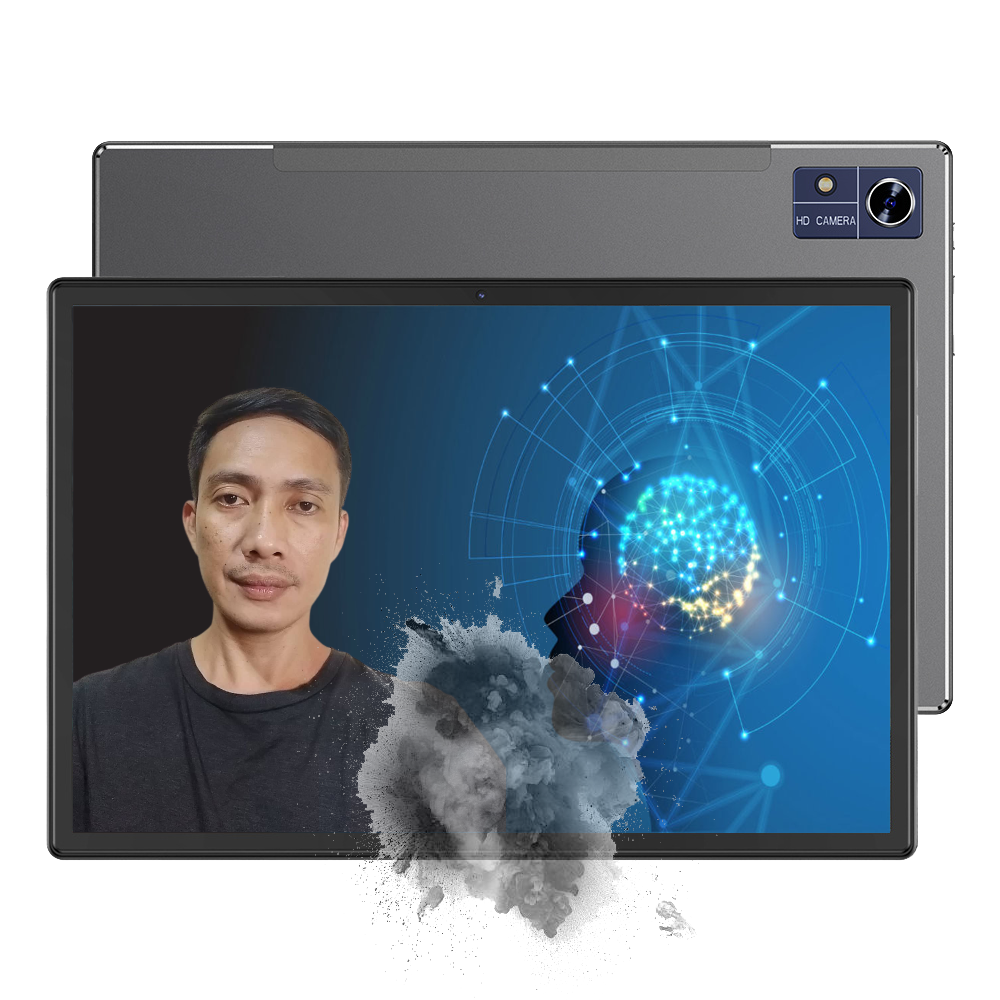
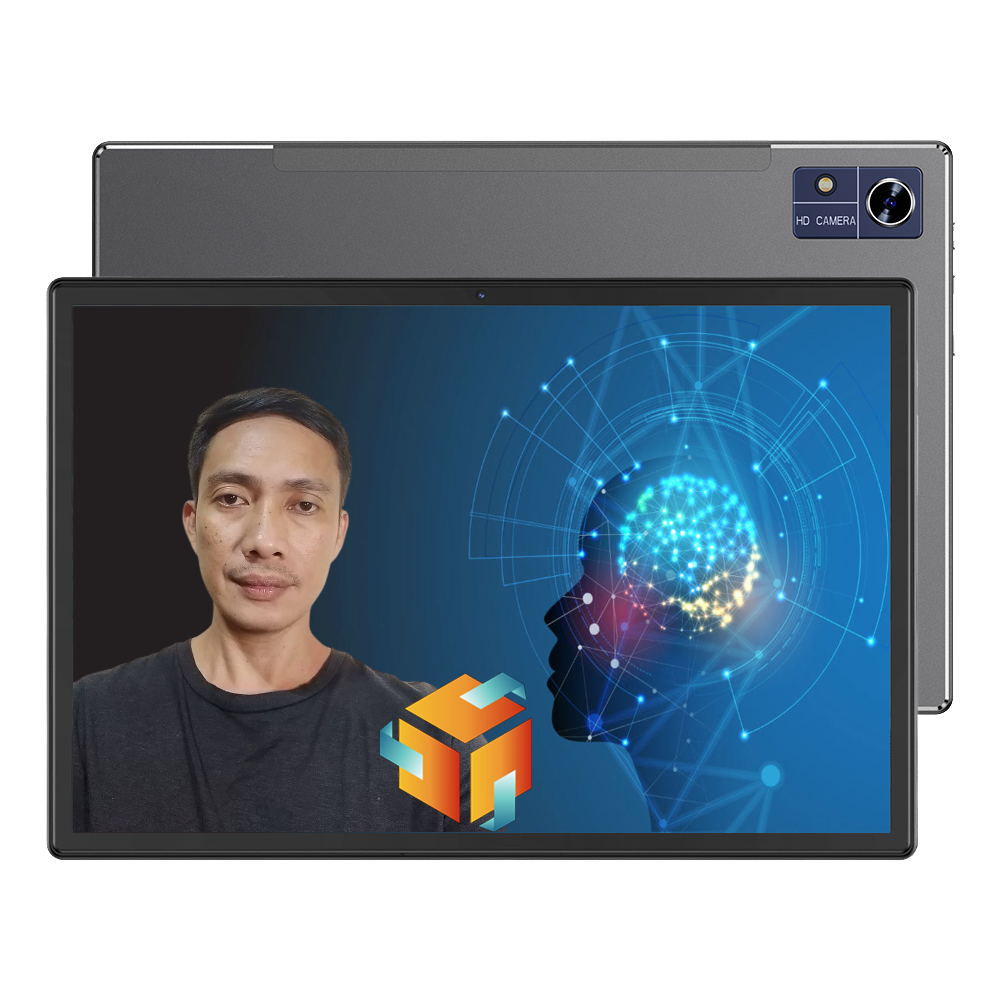
Change the tablet pic at about section

Changed region(s): [[0.341, 0.589, 0.651, 0.961], [0.651, 0.899, 0.682, 0.93]]

diff --git a/src/components/About.vue b/src/components/About.vue
@@ -1,9 +1,9 @@
 
 
 <template>
-          <div class="banner-2 text-center ">
-            <h2 class=" pt-4 px-6 mb-4 text-3xl font-bold text-yellow-600" id="about">ABOUT</h2>
-            <p class="text-xl  flex items-center justify-center text-gray-500"> My freelance journey has afforded me a deep understanding of both 
+          <div class="banner-2 text-center flex flex-col items-center justify-center">
+            <h2 class=" pt-4 px-6 mb-4 text-3xl font-bold text-yellow-600 " id="about">ABOUT</h2>
+            <p class="text-xl  text-gray-500  max-w-5xl"> My freelance journey has afforded me a deep understanding of both 
               front-end and back-end development, and I have successfully executed numerous projects using the Laravel framework and Vue.js. 
               These technologies allow me to create dynamic and responsive web applications that deliver exceptional user experiences
             </p>
